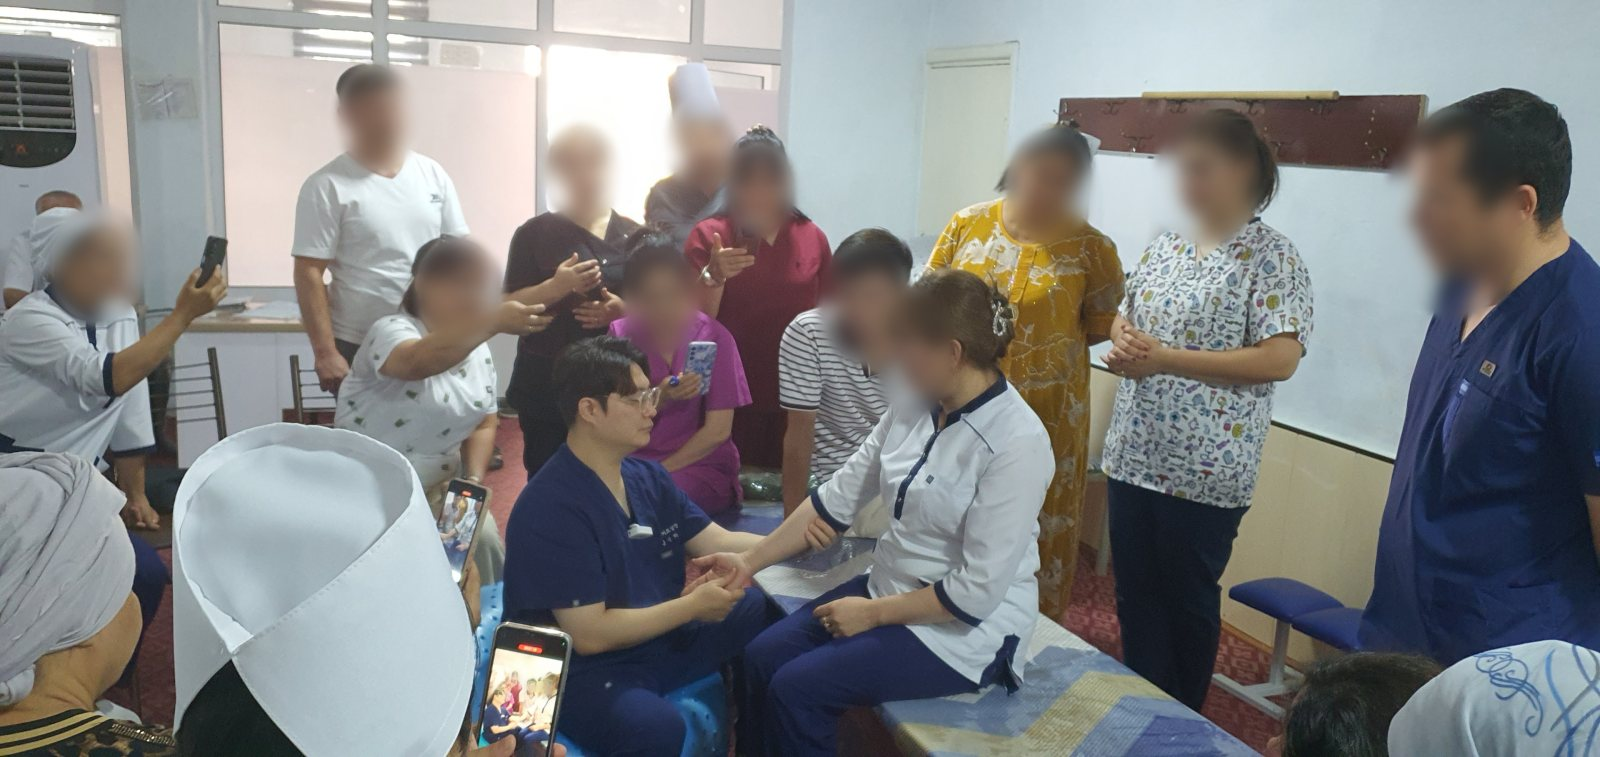
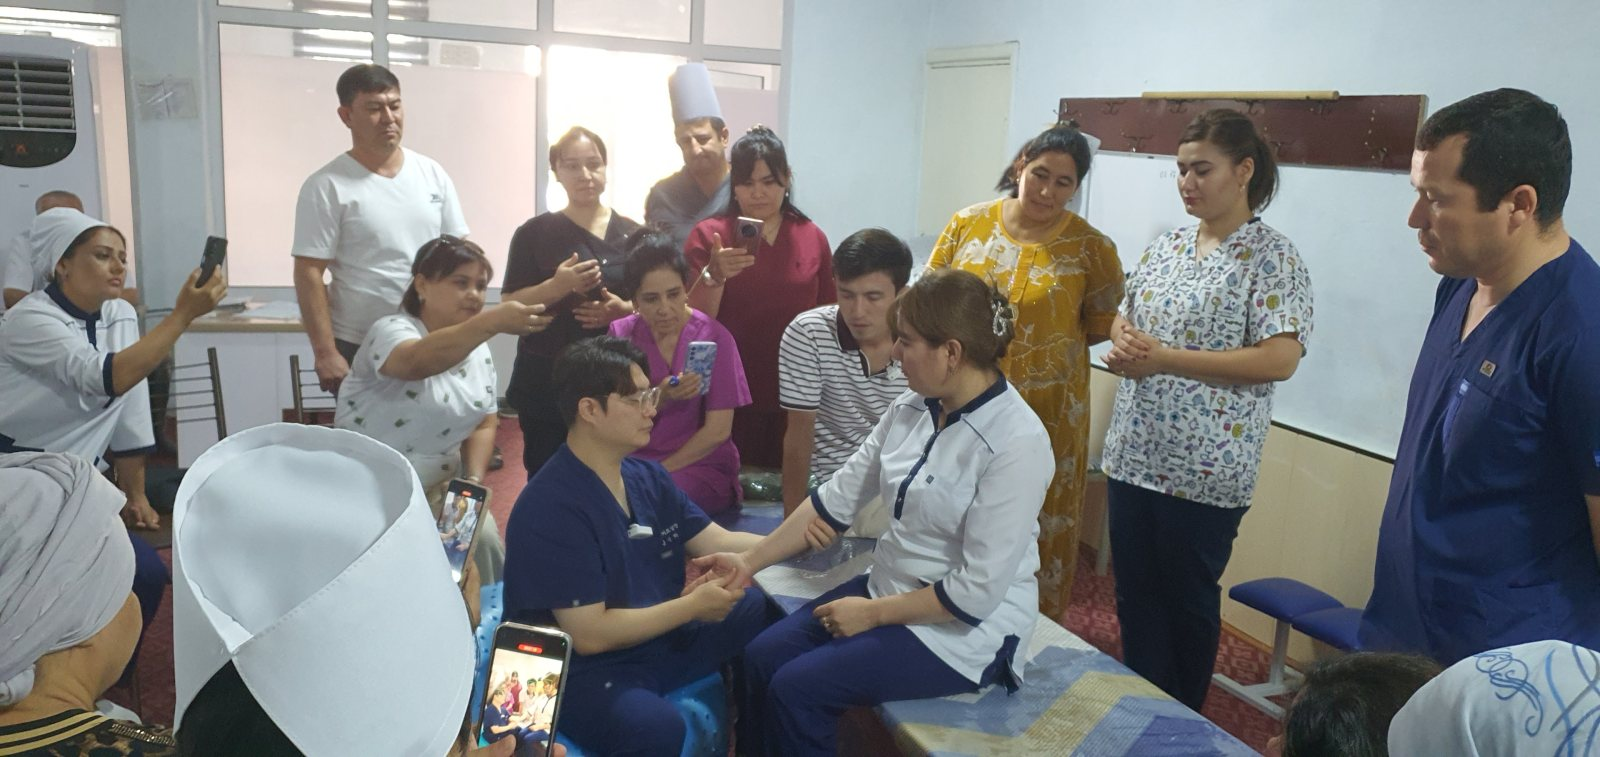
우즈베키스탄 교육 사진 원본(얼굴 가림 해제, 윤해피 지시)
Claude-Session: https://claude.ai/code/session_01S1mjQpFqSHrWnzxq5JXCUo

diff --git a/index.html b/index.html
@@ -652,7 +652,7 @@ h2{word-break:keep-all}
 </div>
 <figure class="yh-rv" style="grid-column: 1 / -1; margin: 0; display: flex; flex-direction: column; gap: 12px">
 <div style="overflow: hidden; border-radius: 6px; border: 1px solid rgba(198,161,91,0.35)"><img src="img/uz_teach.jpg" alt="남색 근무복을 입은 김윤하가 현지 재활 치료사의 팔을 잡고 시범을 보이고, 주위의 치료사들이 둘러서서 휴대폰으로 기록하는 모습" width="1600" height="757" loading="lazy" style="width: 100%; height: auto; display: block"></div>
-<figcaption style="font-size: 13px; color: #8E8879">현지 재활 치료사 교육 — 둘러선 치료사들이 시범을 휴대폰으로 기록하고 있습니다 · 참가자 얼굴은 흐리게 처리했습니다</figcaption>
+<figcaption style="font-size: 13px; color: #8E8879">현지 재활 치료사 교육 — 둘러선 치료사들이 시범을 휴대폰으로 기록하고 있습니다 · 2025 우즈베키스탄</figcaption>
 </figure>
 </div>
 </section>
